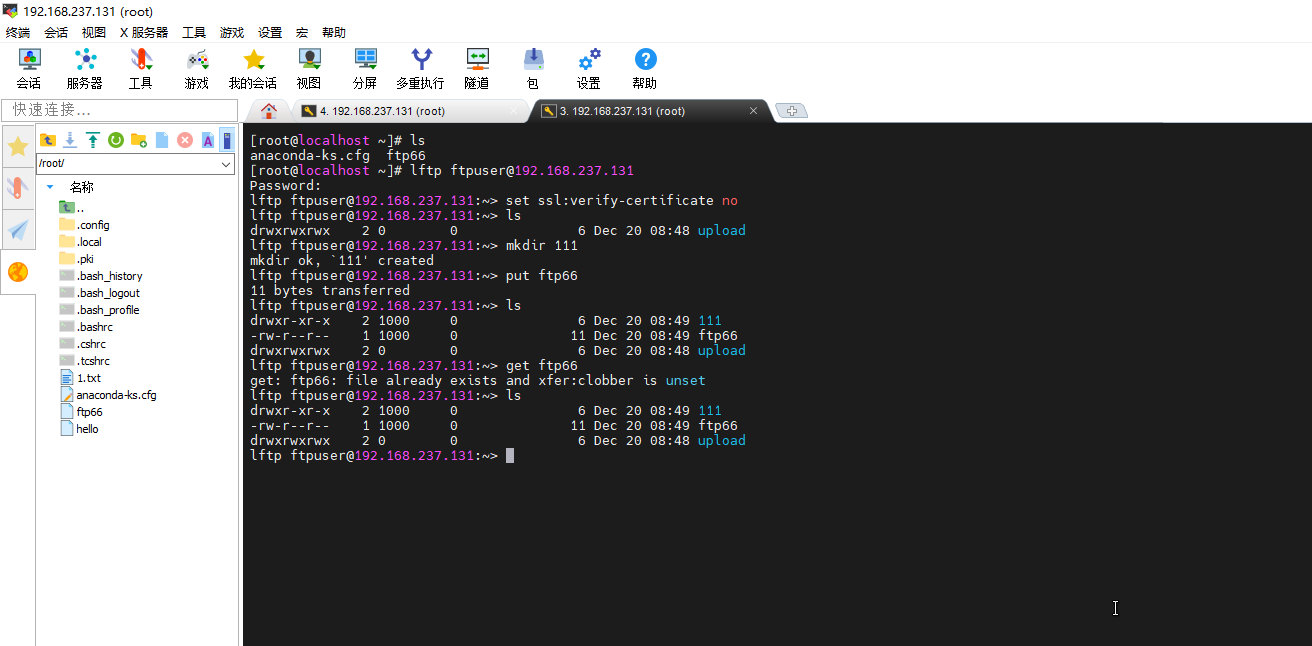
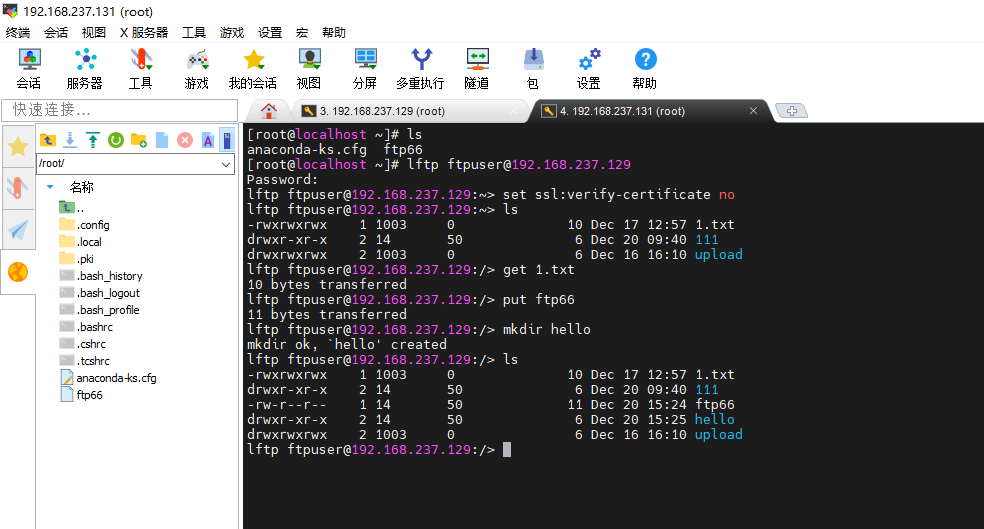
commit

Changed region(s): [[0.0, 0.0, 1.0, 1.0], [0.5793, 0.6957, 0.7622, 0.8469]]

diff --git a/docs/03.linux/11.ftp搭建记录.md b/docs/03.linux/11.ftp搭建记录.md
@@ -137,6 +137,8 @@ yum makecache
 ```bash
 systemctl stop firewalld
 setenforce 0
+setsebool -P ftpd_anon_write on
+setsebool -P ftpd_full_access on
 ```
 
 
@@ -353,7 +355,7 @@ systemctl restart vsftpd.service
 lftp命令交互
 
 ```bash
-lftp ftpuser@192.168.237.131
+lftp ftpuser@192.168.237.129
 ```
 
 忽略证书：
@@ -541,9 +543,11 @@ systemctl restart vsftpd
 
 - ftp服务端：centos 7
 - ip：192.168.237.129
-- ftp客户端：ubuntu22.04 server
-- ip：192.168.237.130
+- ftp客户端：centos 7
+- ip：192.168.237.131
 
+
+> 配置tls加密后，似乎需要用lftp连接
 
 linux安装`lftp`工具连接ftp服务器
 
@@ -662,7 +666,7 @@ account  required  pam_userdb.so db=/etc/vsftpd/vuser
 ### 虚拟用户设置不同权限
 
 
-账户zhangsan和lisi都是用于vsftpd服务程序认证的虚拟账户，但是我们依然想对这两人进行区别对待
+账户zhangsan和lisi都是用于vsftpd服务程序认证的虚拟账户
 
 - 允许张三上传、创建、修改、查看、删除文件 
 - 只允许李四查看文件
